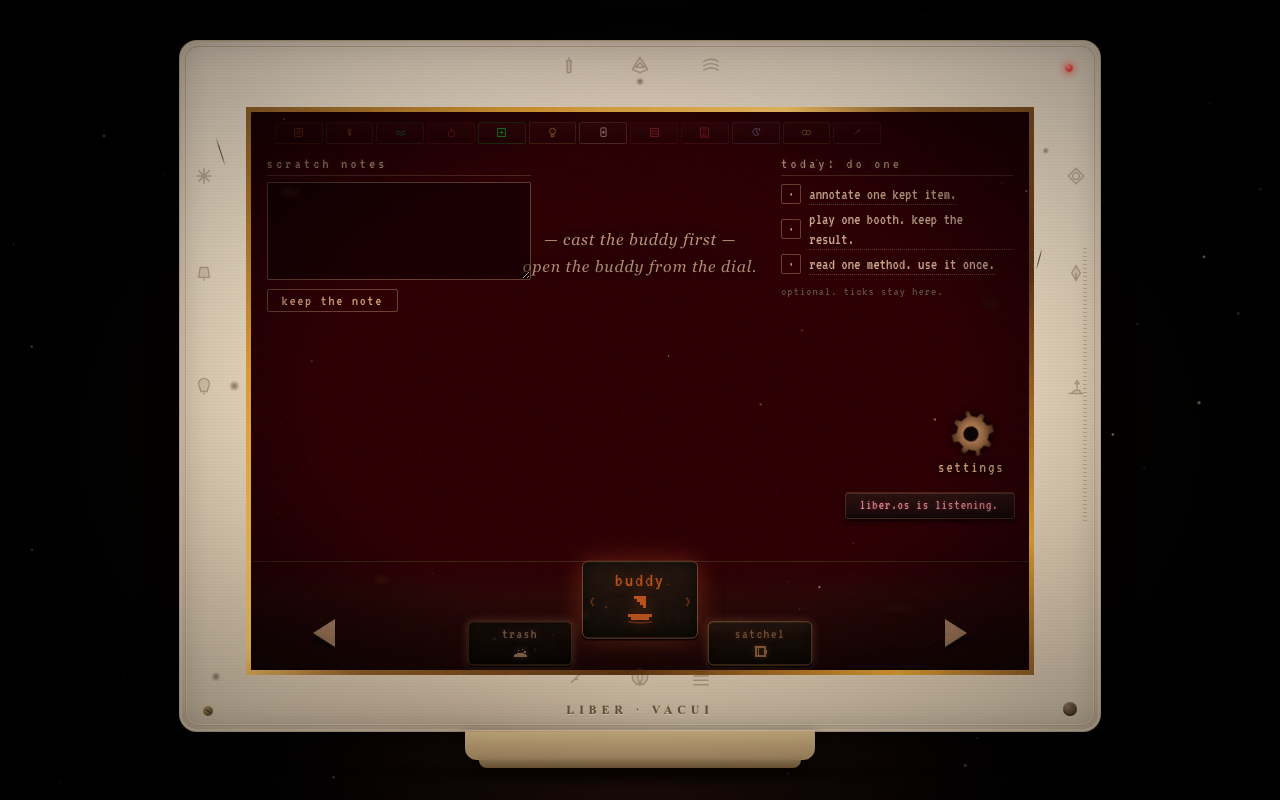
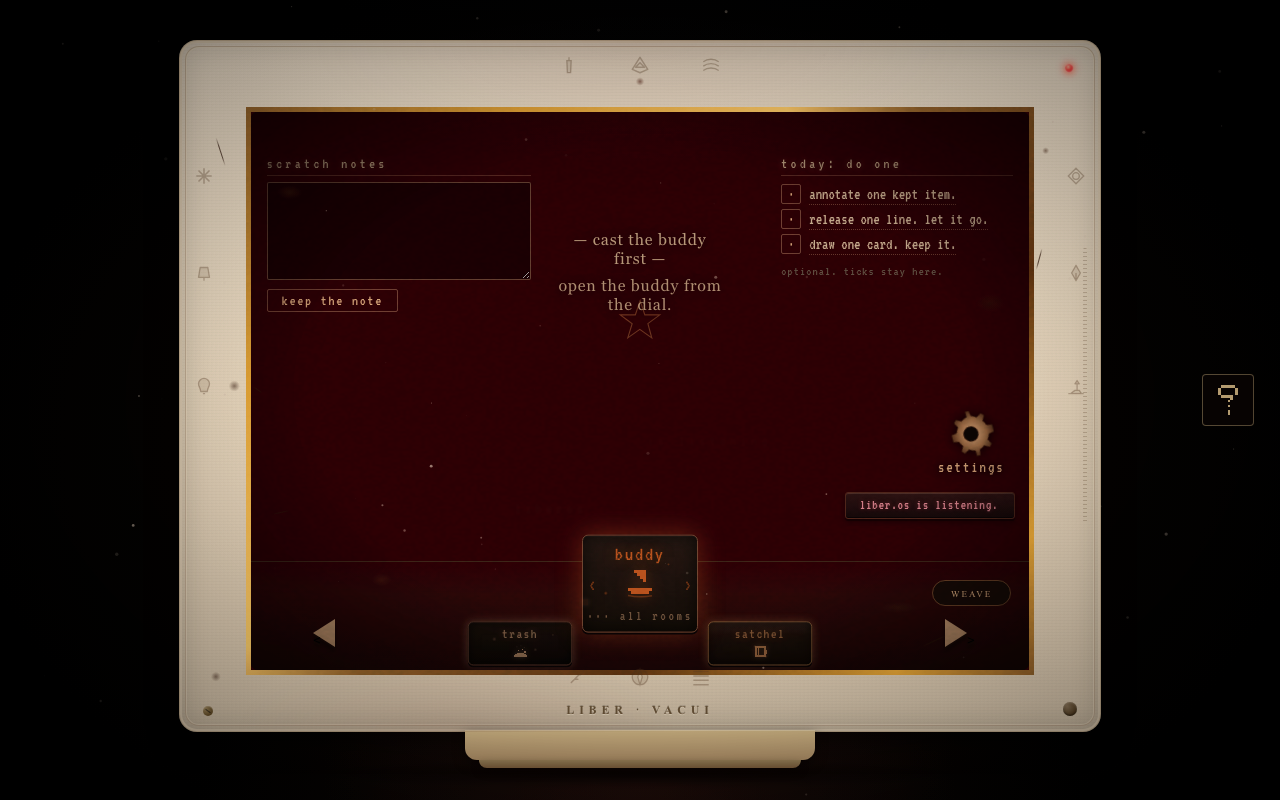
Release 2.6.1: desktop legibility — orbit labels, all-rooms hint, threshold marks

diff --git a/src/constellation.js b/src/constellation.js
@@ -33,6 +33,11 @@
   function getState() {
     return (window.Liber && window.Liber.state && window.Liber.state.get()) || {};
   }
+  // Escape kept names into SVG text/title nodes — names are user-written
+  // and interpolated raw below; this keeps a < in a name from eating the web.
+  function esc(s) {
+    return (s == null ? '' : String(s)).replace(/&/g, '&amp;').replace(/</g, '&lt;').replace(/>/g, '&gt;').replace(/"/g, '&quot;');
+  }
   function stoneOf(list) { return (list || []).filter(function (e) { return e && e.kind === 'stone'; }); }
   function sealedOf(list) { return (list || []).filter(function (e) { return !e || e.kind !== 'stone'; }); }
 
@@ -123,6 +128,7 @@
     if (!s.tutorialDone) {
       if (empty) {
         empty.style.display = '';
+        empty.setAttribute('data-empty-state', 'pre');
         empty.innerHTML = '— make a buddy first —<div class="constellation-empty-sub">open buddy on the dial.</div>';
       }
       svg.innerHTML = '';
@@ -131,22 +137,28 @@
     if (sigils.length === 0) {
       if (empty) {
         empty.style.display = '';
+        empty.setAttribute('data-empty-state', 'cast');
         var sealedWait = sealedOf(s.buddy).length;
         empty.innerHTML = '— cast the buddy first —<div class="constellation-empty-sub">open the buddy from the dial.</div>'
           + (sealedWait > 0 ? '<div class="constellation-empty-sub">' + sealedWait + ' sealed chat' + (sealedWait === 1 ? '' : 's') + ' saved.</div>' : '');
       }
-      svg.innerHTML = '';
+      // Threshold mark: the room acknowledges the crossing — a faint unlit ★
+      // outline at the center where the stone will land. Same void, plus a candle.
+      svg.innerHTML = '<text x="300" y="216" text-anchor="middle" fill="none" stroke="rgba(255,200,100,0.28)" stroke-width="1.2" font-size="48" style="pointer-events:none;">★</text>';
       return;
     }
     if (empty) {
       if (artifacts.length === 0) {
         empty.style.display = '';
+        empty.setAttribute('data-empty-state', 'buddy');
         empty.innerHTML = '— buddy made —<div class="constellation-empty-sub">save one thing: a card, a line, a seed.</div>';
       } else if (relations.length === 0) {
         empty.style.display = '';
+        empty.setAttribute('data-empty-state', 'bind');
         empty.innerHTML = '— something saved —<div class="constellation-empty-sub">give it a verb to bind it to your buddy.</div>';
       } else {
         empty.style.display = 'none';
+        empty.setAttribute('data-empty-state', 'bound');
       }
     }
 
@@ -182,8 +194,13 @@
       var my = (ap.y + sigilPos.y) / 2;
       html += '<line x1="' + ap.x + '" y1="' + ap.y + '" x2="' + sigilPos.x + '" y2="' + sigilPos.y + '" stroke="rgba(255,105,180,' + edgeOpacity + ')" stroke-width="' + edgeWidth + '" stroke-dasharray="4 5"/>';
       if (verb && verb !== 'relates to') {
-        html += '<text x="' + mx + '" y="' + (my - 4) + '" text-anchor="middle" fill="rgba(255,200,220,0.7)" font-size="6.5" font-style="italic" font-family="Georgia, serif" style="pointer-events: none;">' + verb + '</text>';
+        html += '<text x="' + mx + '" y="' + (my - 4) + '" text-anchor="middle" fill="rgba(255,205,225,0.92)" font-size="9" font-family="Georgia, serif" stroke="rgba(10,5,8,0.85)" stroke-width="2.5" paint-order="stroke" style="pointer-events: none;">' + esc(verb) + '</text>';
       }
+    }
+
+    if (relations.length === 0 && artifacts.length > 0) {
+      var fp0 = positionFor(0, artifacts.length, cx, cy, orbitR, orbitR * 0.7);
+      html += '<line x1="' + fp0.x + '" y1="' + fp0.y + '" x2="' + sigilPos.x + '" y2="' + sigilPos.y + '" stroke="rgba(255,105,180,0.35)" stroke-width="1.2" stroke-dasharray="3 6" style="pointer-events:none;"/>';
     }
 
     for (var bi = 0; bi < artifacts.length; bi++) {
@@ -192,11 +209,17 @@
       var pal = ARTIFACT_PALETTE[bi % ARTIFACT_PALETTE.length];
       var id = art.data && art.data.id ? art.data.id : 'a' + bi;
       var isBound = boundIndices.indexOf(bi) !== -1;
-      html += '<circle class="constellation-artifact" data-artifact-id="' + id + '" cx="' + p.x + '" cy="' + p.y + '" r="9" fill="' + pal.color + '" fill-opacity="' + (isBound ? '1.0' : '0.55') + '" stroke="#fff" stroke-width="0.6" style="cursor: pointer; filter: drop-shadow(0 0 5px ' + pal.glow + ');"/>';
-      html += '<text x="' + p.x + '" y="' + (p.y + 3) + '" text-anchor="middle" fill="#1a0a05" font-size="8" font-weight="700" style="pointer-events: none;">' + (bi + 1) + '</text>';
-      var lbl = (art.label || '').toString();
+      var fullLbl = (art.label || '').toString();
+      var lbl = fullLbl;
       if (lbl.length > 18) lbl = lbl.substring(0, 16) + '..';
-      html += '<text x="' + p.x + '" y="' + (p.y - 14) + '" text-anchor="middle" fill="#c8b890" font-size="7" font-family="serif" font-style="italic" style="pointer-events: none;">' + lbl + '</text>';
+      var pillW = Math.max(22, lbl.length * 5.6 + 12);
+      var pillY = p.y + 13;
+      html += '<g><title>' + esc(fullLbl || ('artifact ' + (bi + 1))) + '</title>';
+      html += '<circle class="constellation-artifact" data-artifact-id="' + id + '" cx="' + p.x + '" cy="' + p.y + '" r="9" fill="' + pal.color + '" fill-opacity="' + (isBound ? '1.0' : '0.55') + '" stroke="#fff" stroke-width="0.6" style="cursor: pointer; filter: drop-shadow(0 0 5px ' + pal.glow + ');"/>';
+      html += '<text x="' + p.x + '" y="' + (p.y + 3) + '" text-anchor="middle" fill="#1a0a05" font-size="9" font-weight="700" style="pointer-events: none;">' + (bi + 1) + '</text>';
+      html += '<rect x="' + (p.x - pillW / 2).toFixed(1) + '" y="' + pillY.toFixed(1) + '" width="' + pillW.toFixed(1) + '" height="15" rx="7.5" fill="rgba(10,5,8,0.82)" stroke="rgba(200,184,144,0.25)" stroke-width="0.6" style="pointer-events: none;"/>';
+      html += '<text x="' + p.x + '" y="' + (pillY + 11).toFixed(1) + '" text-anchor="middle" fill="#e8dcc0" font-size="9" font-family="Georgia, serif" style="pointer-events: none;">' + esc(lbl) + '</text>';
+      html += '</g>';
       var kids = (s.relations || []).filter(function (r) { return (r.to || 'buddy') === id; });
       if (kids.length) {
         html += '<circle cx="' + p.x + '" cy="' + p.y + '" r="16" fill="none" stroke="rgba(255,255,255,0.35)" stroke-width="0.7" stroke-dasharray="2 3" style="pointer-events:none;"/>';
@@ -206,12 +229,16 @@
           var kid = findAnyById(kids[ki].from);
           var kidLabel = kid ? kid.label : 'kept';
           var kidId = kids[ki].from;
-          html += '<circle class="constellation-artifact constellation-satellite" data-artifact-id="' + kidId + '" cx="' + kx.toFixed(1) + '" cy="' + ky.toFixed(1) + '" r="4.5" fill="' + pal.color + '" fill-opacity="0.95" stroke="#fff" stroke-width="0.5" style="cursor: pointer; filter: drop-shadow(0 0 4px ' + pal.glow + ');"><title>' + kidLabel.replace(/"/g, '') + '</title></circle>';
+          html += '<circle class="constellation-artifact constellation-satellite" data-artifact-id="' + kidId + '" cx="' + kx.toFixed(1) + '" cy="' + ky.toFixed(1) + '" r="4.5" fill="' + pal.color + '" fill-opacity="0.95" stroke="#fff" stroke-width="0.5" style="cursor: pointer; filter: drop-shadow(0 0 4px ' + pal.glow + ');"><title>' + esc(kidLabel) + '</title></circle>';
         }
       }
     }
 
     html += '</g>';
+
+    if (sigils.length > 0 && relations.length === 0) {
+      html += '<ellipse cx="' + cx + '" cy="' + cy + '" rx="' + orbitR + '" ry="' + (orbitR * 0.7) + '" fill="none" stroke="rgba(200,184,144,0.3)" stroke-width="1" stroke-dasharray="5 6" style="pointer-events:none;"/>';
+    }
 
     html += '<circle class="constellation-sigil-halo" cx="' + sigilPos.x + '" cy="' + sigilPos.y + '" r="' + (sigilR + 14) + '" fill="none" stroke="rgba(255,200,100,0.3)" stroke-width="1.5" stroke-dasharray="2 6"/>';
     html += '<circle class="constellation-sigil" id="constellation-sigil" cx="' + sigilPos.x + '" cy="' + sigilPos.y + '" r="' + sigilR + '" fill="rgba(255,200,100,0.95)" stroke="#fff" stroke-width="0.8" style="cursor: pointer; filter: drop-shadow(0 0 10px rgba(255,200,100,0.8));"/>';

diff --git a/styles/constellation.css b/styles/constellation.css
@@ -29,7 +29,7 @@
   max-width: 46%; /* narrow screens: wrap instead of reaching the side panels */
   text-align: center;
   font-family: Georgia, 'Times New Roman', serif;
-  font-style: italic;
+  font-style: normal;
   /* D0003 WS1: this box signals how to begin — functional, not ambient.
      Raised from 0.75 to clear 4.5:1 on the screen maroon. */
   color: rgba(200, 184, 144, 0.85);
@@ -203,7 +203,7 @@
   border: 1px solid #4a1a2a;
   color: #c8a8b8;
   font-family: Georgia, 'Times New Roman', serif;
-  font-style: italic;
+  font-style: normal;
   font-size: 1rem;
   padding: 4px 8px;
   width: 50%;
@@ -216,7 +216,7 @@
   box-shadow: 0 0 6px rgba(255, 105, 180, 0.4);
 }
 
-.constellation-mini-verb::placeholder { color: rgba(200, 184, 144, 0.65); font-style: italic; }
+.constellation-mini-verb::placeholder { color: rgba(200, 184, 144, 0.65); font-style: normal; }
 
 .constellation-mini-actions {
   display: flex;
@@ -255,8 +255,8 @@
   border-color: #aa4040;
 }
 .constellation-mini-text {
-  font-size: 0.95rem;
-  font-style: italic;
+  font-size: 1rem;
+  font-style: normal;
   line-height: 1.5;
   color: #e8d0d0;
   max-height: 7.5em;
@@ -297,8 +297,8 @@
   border: 1px solid #4a1a2a;
   color: #c8a8b8;
   font-family: Georgia, serif;
-  font-style: italic;
-  font-size: 0.9rem;
+  font-style: normal;
+  font-size: 1rem;
   padding: 4px 6px;
   border-radius: 2px;
   max-width: 70%;

diff --git a/src/dial.js b/src/dial.js
@@ -234,7 +234,8 @@ function renderOption(v, pos, sigilLocked, visitedMap) {
     btn.innerHTML = '<span class="phos-label">' + v.name + '</span>'
       + '<span class="dial-glyph"><svg viewBox="0 0 12 12" shape-rendering="crispEdges" fill="currentColor" aria-hidden="true">' + b.svg + (b.mark || '') + '</svg></span>'
       + badgeHtml
-      + motesHtml;
+      + motesHtml
+      + (pos === 'active' ? '<span class="dial-all-hint" title="all rooms (or press ↓)">··· all rooms</span>' : '');
     var p = PERSONAS[v.id];
     if (p && p.cursor && !(v.id === 'sigil' && sigilLocked)) {
       btn.style.cursor = p.cursor;
@@ -252,6 +253,11 @@ function renderOption(v, pos, sigilLocked, visitedMap) {
       }
     });
     if (pos === 'active') {
+      var hint = btn.querySelector('.dial-all-hint');
+      if (hint) hint.addEventListener('click', function (e) {
+        e.stopPropagation();
+        openIndex();
+      });
       btn.addEventListener('pointerdown', function () {
         if (holdTimer) clearTimeout(holdTimer);
         holdTimer = setTimeout(function () {

diff --git a/styles/dial.css b/styles/dial.css
@@ -165,6 +165,25 @@
   filter: drop-shadow(0 0 7px var(--glow, rgba(200, 168, 120, 0.8)));
 }
 
+/* The scented door: the full index always existed (600ms hold on the
+   active tile) but nothing said so. A persistent faint line under the
+   active tile opens it on click. Carousel untouched — one door, no grid. */
+.dial-all-hint {
+  display: block;
+  margin-top: 3px;
+  font-family: 'VT323', 'Courier New', monospace;
+  font-size: 14px;
+  letter-spacing: 0.18em;
+  color: rgba(200, 168, 120, 0.5);
+  cursor: pointer;
+  pointer-events: auto;
+}
+
+.dial-all-hint:hover {
+  color: #f0d090;
+  text-shadow: 0 0 8px rgba(200, 168, 120, 0.6);
+}
+
 .dial-option.active::before,
 .dial-option.active::after {
   content: '‹';

diff --git a/CHANGELOG.md b/CHANGELOG.md
@@ -1,5 +1,27 @@
 # LiberOS changelog
 
+## 2.6.1 — desktop legibility: orbit labels, all-rooms hint, threshold marks
+### Fixed
+- Constellation orbit labels read at last: numbers at 9px bold, kept names
+  at 9px upright on a dark pill below the dot (was 7px italic above it);
+  full names survive truncation in hover titles; verb edges rise from 6.5px
+  italic to 9px upright with a dark outline. Kept names are also escaped
+  into the SVG now (user-written `<` can't eat the web).
+- Dial shows a persistent `··· all rooms` hint under the active tile
+  (VT323 14px, faint) that opens the full index on click — the 600ms-hold
+  door finally has a signpost. Carousel untouched.
+- Empty states keep their words but gain threshold marks: cast-first shows
+  a faint unlit ★ outline, buddy-made adds the lit ★ with an empty dashed
+  orbit, first-bind draws one ghost edge. Same void, plus the room
+  acknowledging each crossing.
+### Changed
+- Desktop functional text goes upright: constellation invitations and the
+  mini-menu (preview, verb input, bind picker) drop italics for 16px roman;
+  italics stay for flavour (header counts, buddy caption) only.
+### Proven
+- Full smoke green, zero page/console errors; orbit pills, ghost marks, and
+  the all-rooms index verified in seeded desktop states at 1280×800.
+
 ## 2.6.0 — consent gate, affinity unlocks, finished chat, glyph works, three booths, weaver, soundscape
 ### New
 - Boot consent gate: RAT's letter with a checkbox; enter stays disabled
